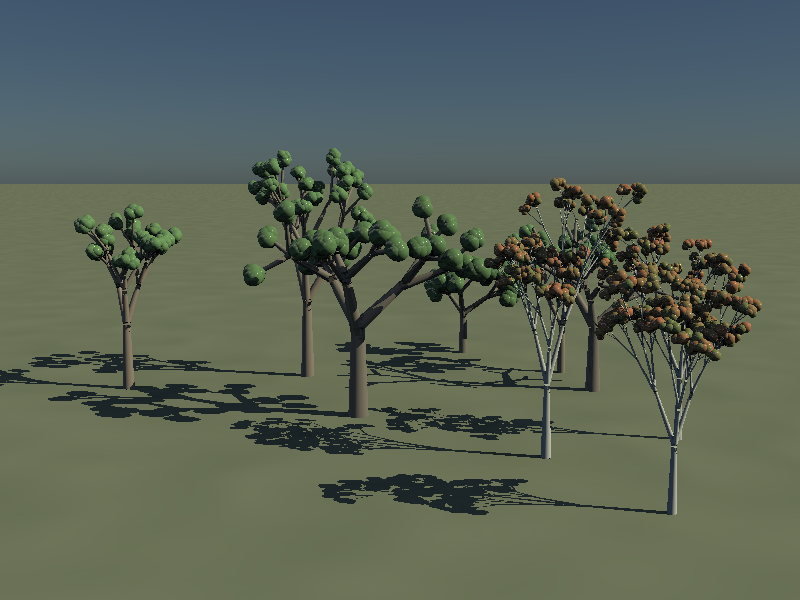
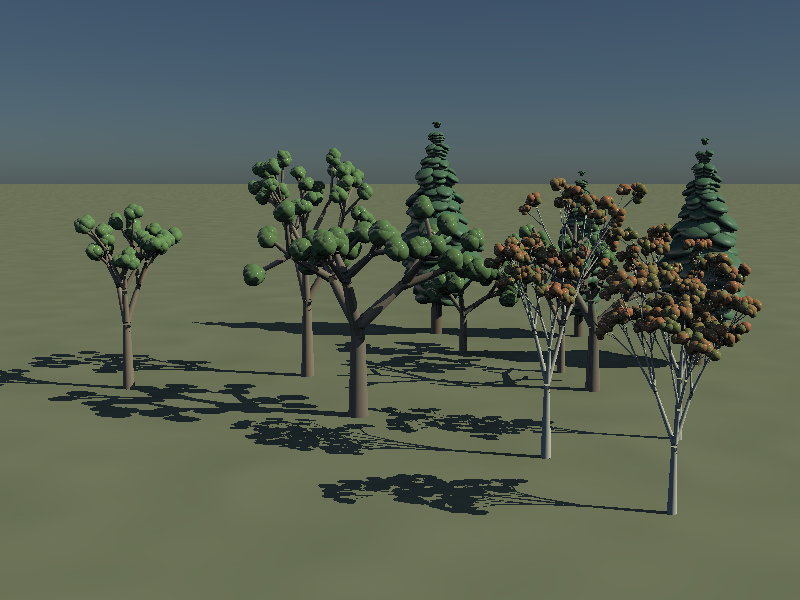
Add a conifer to the tree library
A fir is not an elm with different numbers.  The three broadleaves are made by
forking -- a limb divides into limbs and the shape falls out of how they lean --
and a conifer has one trunk the whole height of it with rings of branches coming
off, a whorl a year, each ring shorter than the one below.  That is a loop rather
than a recursion, so `Fir` is built the other way round from its neighbours and
the two sit in one library because the shapes are honestly different.

Winter is real for it.  A fir keeps its needles, which would have left it the one
tree here that ignored the season it was handed -- so instead it answers winter
with snow along the upper side of its boughs, decided per bough so that some
limbs carry it and others do not.  A fir under an even coating looks moulded
rather than snowed on.

Two faults in the first cut of this, both found by reading the diff:

  - `Fir` defaulted to winter while every other tree defaulted to summer.  That
    was harmless for exactly as long as the fir ignored the season, and would
    have put a snow-laden tree into any scene that wrote `Fir(8)`.  A test now
    holds all four species to the same default.
  - `TreeSpread(species)` took a species and ignored it, which is the same fault
    the season had.  It is `TreeFirSpread()` now, because it is a fact about firs
    and not about trees.

The gallery stand gains three of them, in summer: snow is a fact about a whole
[…]

diff --git a/Tests/TestShippedLibraries.cs b/Tests/TestShippedLibraries.cs
@@ -163,7 +163,7 @@ public class TestShippedLibraries
     /// every scene that imports them, so changing one should be a failure and not a shrug.
     /// </para>
     /// </summary>
-    private static readonly string[] Species = ["Elm", "Oak", "Birch"];
+    private static readonly string[] Species = ["Elm", "Oak", "Birch", "Fir"];
 
     [TestMethod]
     public void TestEveryTreeGrowsInEverySeason()
@@ -198,6 +198,26 @@ public class TestShippedLibraries
 
         foreach (string tree in Species)
         {
+            // A fir makes a different promise from the others and is held to that one.  It keeps its
+            // needles, so spring, summer and autumn are the same tree -- and it takes snow, so winter
+            // is not.  Both halves matter: a fir that differed in autumn would have lost its needles,
+            // and one that did not differ in winter would have lost its snow.
+            if (tree == "Fir")
+            {
+                Canvas evergreen = Picture(tree, "summer");
+
+                foreach (string season in new[] { "autumn", "spring" })
+                {
+                    Assert.IsFalse(Differs(evergreen, Picture(tree, season)),
+                        $"a fir keeps its needles and should look the same in {season}");
+                }
+
+                Assert.IsTrue(Differs(evergreen, Picture(tree, "winter")),
+                    "a fir should carry snow in winter");
+
+                continue;
+            }
+
             Canvas[] pictures = seasons.Select(season => Picture(tree, season)).ToArray();
 
             for (int one = 0; one < seasons.Length; one++)
@@ -217,9 +237,14 @@ public class TestShippedLibraries
     /// <summary>
     /// Grows one tree of one species in one season, and hands back whatever stopped it.
     /// </summary>
-    private string Grow(string tree, string season)
+    private string Grow(string tree, string season, int? variant = 2)
     {
         string scene = Path.Combine(_directory, "scene.igl");
+        // A null leaves that argument off altogether, which is how the defaults get tested.  They are
+        // positional, so leaving the season off leaves the variant off too.
+        string call = $"{tree}(8" +
+                      (season is null ? "" : $", \'{season}\'") +
+                      (season is null || variant is null ? "" : $", {variant}") + ")";
 
         File.WriteAllText(scene, $$"""
             import 'trees' { {{tree}} }
@@ -227,7 +252,7 @@ public class TestShippedLibraries
             camera { location [10, 5, -16]  look at [0, 4, 0]  field of view 45 }
             point light { location [-10, 14, -12] }
             background [0.5, 0.6, 0.8]
-            object {{tree}}(8, '{{season}}', 2)
+            object {{call}}
             """);
 
         return Render(scene);
@@ -236,9 +261,9 @@ public class TestShippedLibraries
     /// <summary>
     /// Grows one and hands back the picture of it.
     /// </summary>
-    private Canvas Picture(string tree, string season)
+    private Canvas Picture(string tree, string season, int? variant = 2)
     {
-        Assert.IsNull(Grow(tree, season), $"{tree} should grow in {season}");
+        Assert.IsNull(Grow(tree, season, variant), $"{tree} should grow in {season}");
 
         return new ImageFile(Path.Combine(_directory, "out.png")).Load()[0];
     }
@@ -262,6 +287,26 @@ public class TestShippedLibraries
         }
 
         return false;
+    }
+
+    [TestMethod]
+    public void TestATreeAskedForWithNoSeasonGrowsInSummer()
+    {
+        // Every tree takes the season last and defaults it, so most scenes never write one -- which
+        // makes the default the season most trees in most scenes are actually in, and it should be the
+        // same one for all of them.  A single tree defaulting differently is invisible while nothing
+        // depends on the season and becomes a snow-laden fir in a summer stand the moment something
+        // does.  That is not hypothetical: the fir defaulted to winter, harmlessly, right up until
+        // winter grew snow.
+        File.Copy(
+            Shipped.First(path => Path.GetFileName(path) == "trees.igl"),
+            Path.Combine(_directory, "trees.igl"), true);
+
+        foreach (string tree in Species)
+        {
+            Assert.IsFalse(Differs(Picture(tree, null), Picture(tree, "summer", null)),
+                $"a {tree} asked for with no season should be the same as one in summer");
+        }
     }
 
     [TestMethod]

diff --git a/docs/libraries.md b/docs/libraries.md
@@ -100,6 +100,7 @@ object Elm(8, 'winter', 4)       { translate X -12 }
 | `Elm` | Reaching, the limbs sweeping up and out. |
 | `Oak` | Heavy and broad, throwing its weight sideways. |
 | `Birch` | Slender, pale-barked, dividing into finer twigs than the others. |
+| `Fir` | A conifer: one trunk the whole height, with rings of branches coming off it.  Evergreen, so spring, summer and autumn are the same tree -- but ask one for winter and snow gathers along its boughs. |
 
 Three numbers, of which only the first is required: **how tall**, **what time of year**, and **which
 tree of that kind**.
